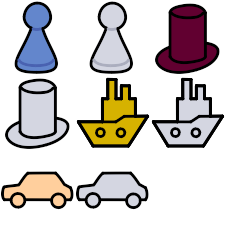
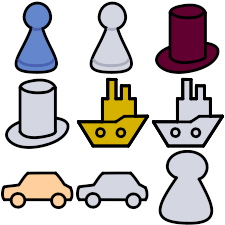
ftr(Piece): add piece selection

Changed region(s): [[0.6844, 0.6533, 0.9644, 1.0]]

diff --git a/oligarсhy/src/game/Core.js b/oligarсhy/src/game/Core.js
@@ -15,6 +15,7 @@ import Utils from './Utils.js';
 import Helper from './Helper.js';
 import Timer from './Entities/Timer.js';
 import Dice from './Entities/Dice.js';
+import Piece from './Entities/Piece.js';
 
 export default class Core {
 
@@ -24,7 +25,7 @@ export default class Core {
     /** @type {Fields} */
     _fields;
 
-    /** @type {Phaser.GameObjects.Image[]} */
+    /** @type {Piece[]} */
     _pieces;
 
     /** @type {Dice} */
@@ -120,8 +121,7 @@ export default class Core {
         for (let player = 0; player < Config.Start.PlayerCount; ++player) {
             const position = me._fields.movePiece(player, 0, Config.Start.PiecePositions[player]);
 
-            const piece = factory.image(position.x, position.y, 'pieces', player * 2)
-                .setDepth(Consts.Depth.Pieces);
+            const piece = new Piece(scene, position.x, position.y, player);
 
             me._pieces.push(piece);
         }
@@ -185,19 +185,12 @@ export default class Core {
         const me = this;
 
         if (!me._scene.input.mouse.locked) {
-            if (!me._status.isPause) {
-                me._scene.tweens.pauseAll();
-                me._turnTimer.pause();
-                me._status.isPause = true;
-                me._fade.setVisible(true);
-            }
+            if (!me._status.isPause)
+                me._pause();
 
             return;
         } else if (me._status.isPause) {
-            me._scene.tweens.resumeAll();
-            me._status.isPause = false;
-            me._turnTimer.resume();
-            me._fade.setVisible(false);
+            me._unpause();
         }
 
         const skipTurn = Config.Debug.Global 
@@ -213,12 +206,13 @@ export default class Core {
             return;
         }
 
-        if (!me._isHumanTurn()) {
+        if (me._isHumanTurn()) {
+            const target = me._getCursorOffset();
+            me._getCurrentPlayer().hand.moveTo(target, delta);
+            
+        } else {
             me._processCpuTurn();
         }
-
-        const target = me._getCursorOffset();
-        me._getCurrentPlayer().hand.moveTo(target, delta);
 
         if (Config.Debug.Global && Config.Debug.TextLog) {
             me._log.text = 
@@ -248,8 +242,8 @@ export default class Core {
             ? me._hud.showField(index)
             : me._hud.hideField();
 
-        me._players.forEach(
-            (p) => p.updateButtonSelection(point));
+        if (me._isHumanTurn())
+            me._getCurrentPlayer().player.updateButtonSelection(point);
     }
 
     onPointerDown(pointer) {
@@ -440,7 +434,7 @@ export default class Core {
                     point,
                     Enums.HandAction.TAKE_PIECE,
                     {
-                        image: me._pieces[me._status.player],
+                        image: me._pieces[me._status.player].toGameObject(),
                         type: Enums.HandState.PIECE,
                     },
                     () => { me._setState(Enums.GameState.PIECE_TAKED) });
@@ -717,7 +711,7 @@ export default class Core {
                     ? me._status.player
                     : Enums.PlayerIndex.HUMAN;
 
-                const humanPos = Utils.toPoint(me._pieces[playerIndex]);
+                const humanPos = Utils.toPoint(me._pieces[playerIndex].toGameObject());
 
                 const randomPos = Utils.buildPoint(
                     humanPos.x + Utils.getRandom(-200, 200, 0),
@@ -731,7 +725,7 @@ export default class Core {
             }
 
             case Enums.GameState.DICES_DROPED:
-                return Utils.toPoint(me._pieces[me._status.player]);
+                return Utils.toPoint(me._pieces[me._status.player].toGameObject());
 
             case Enums.GameState.PIECE_TAKED:
                 return me._fields.getFieldPosition(me._status.targetPieceIndex);
@@ -944,19 +938,7 @@ export default class Core {
         switch (state) {
             case Enums.GameState.BEGIN:
                 player.showButtons([]);
-
-                if (player.index == Enums.PlayerIndex.HUMAN) {
-                    me._dice1.select();
-                    me._dice2.select();
-                } else {
-                    me._dice1.unselect();
-                    me._dice2.unselect();
-                }
                 break;
-
-            case Enums.GameState.SECOND_DICE_TAKED:
-                me._dice1.unselect();
-                me._dice2.unselect();
 
             case Enums.GameState.FINAL:
                 player.showButtons([ Enums.ActionType.NEXT_TURN ]);
@@ -968,6 +950,7 @@ export default class Core {
         }
 
         me._status.setState(state);
+        me._restoreSelection();
     }
 
     _createCursor(scene) {
@@ -1046,12 +1029,12 @@ export default class Core {
 
         me._status.isBusy = true;
         return me._scene.tweens.add({
-            targets: me._pieces[me._status.player],
+            targets: me._pieces[me._status.player].toGameObject(),
             x: jail.x,
             y: jail.y,
             ease: 'Sine.easeInOut',
             duration: Utils.getTweenDuration(
-                Utils.toPoint(me._pieces[me._status.player]),
+                Utils.toPoint(me._pieces[me._status.player].toGameObject()),
                 jail,
                 Consts.Speed.HandAction
             ),
@@ -1125,6 +1108,63 @@ export default class Core {
                     me._groups.killBill(bill);
                 }
             });
+        }
+    }
+
+    _pause() {
+        const me = this;
+
+        me._scene.input.mouse.releasePointerLock();
+        me._scene.tweens.pauseAll();
+        me._turnTimer.pause();
+        me._status.isPause = true;
+        me._fade.setVisible(true);
+    }
+
+    _unpause() {
+        const me = this;
+
+        me._scene.tweens.resumeAll();
+        me._status.isPause = false;
+        me._turnTimer.resume();
+        me._restoreSelection();
+        me._fade.setVisible(false);
+    }
+
+    _restoreSelection() {
+        const me = this;
+
+        const isHuman = me._isHumanTurn();
+
+        switch (me._status.state) {
+            case Enums.GameState.BEGIN:
+
+                if (!isHuman) {
+                    me._dice1.unselect();
+                    me._dice2.unselect();
+                    me._pieces[Enums.PlayerIndex.HUMAN].unselect();
+                } else {
+                    me._dice1.select();
+                    me._dice2.select();
+                }
+                break;
+
+            case Enums.GameState.SECOND_DICE_TAKED:
+                me._dice1.unselect();
+                me._dice2.unselect();
+
+                break;
+
+            case Enums.GameState.DICES_DROPED:
+                if (isHuman)
+                    me._pieces[Enums.PlayerIndex.HUMAN].select();
+
+                break;
+
+            case Enums.GameState.PIECE_TAKED:
+                if (isHuman)
+                    me._pieces[Enums.PlayerIndex.HUMAN].unselect();
+                break;
         }
     }
 }

diff --git a/oligarсhy/src/game/Entities/Piece.js b/oligarсhy/src/game/Entities/Piece.js
@@ -1,0 +1,63 @@
+import Phaser from "../../lib/phaser.js";
+
+import Consts from "../Consts.js";
+import Enums from "../Enums.js";
+
+export default class Piece {
+    
+    _sprite;
+
+    _selection;
+
+    _tween;
+
+    _container;
+
+    /**
+     * 
+     * @param {Phaser.Scene} scene 
+     * @param {Number} x 
+     * @param {Number} y 
+     * @param {Number} frame 
+     */
+    constructor(scene, x, y, player) {
+        const me = this;
+
+        me._selection = scene.add.image(0, 0, 'pieces', 8)
+           .setVisible(false);
+
+        me._sprite = scene.add.image(0, 0, 'pieces', player * 2);
+
+        me._container = scene.add.container(x, y, [ me._selection, me._sprite ])
+            .setDepth(Consts.Depth.Pieces);
+
+        if (player == Enums.PlayerIndex.HUMAN)
+            me._tween = scene.tweens.add({
+                targets: me._selection,
+                scale: { from: 1, to: 1.25 },
+                duration: Consts.Speed.Selection,
+                yoyo: true,
+                repeat: -1
+            });
+    }
+
+    toGameObject() {
+        const me = this;
+
+        return me._container;
+    }
+
+    select() {
+        const me = this;
+
+        me._selection.setVisible(true);
+        me._tween.resume();
+    }
+
+    unselect() {
+        const me = this;
+
+        me._selection.setVisible(false);
+        me._tween.pause();
+    }
+}

diff --git a/oligarсhy/src/game/Entities/Dice.js b/oligarсhy/src/game/Entities/Dice.js
@@ -1,9 +1,6 @@
 import Phaser from "../../lib/phaser.js";
 
 import Consts from "../Consts.js";
-import Enums from "../Enums.js";
-import Groups from "./Groups.js";
-import Helper from "../Helper.js";
 import Utils from "../Utils.js";
 
 export default class Dice {
@@ -49,7 +46,7 @@ export default class Dice {
         me._tween = scene.tweens.add({
             targets: me._selection,
             scale: { from: 1, to: 0.9 },
-            duration: 500,
+            duration: Consts.Speed.Selection,
             yoyo: true,
             repeat: -1
         });

diff --git a/oligarсhy/src/game/Consts.js b/oligarсhy/src/game/Consts.js
@@ -128,7 +128,9 @@ export default class Consts {
         HandGrabDuration: 200,
 
         CardShiftDuration: 1000,
-        CardEntranceDuration: 1500
+        CardEntranceDuration: 1500,
+
+        Selection: 500
     };
 
     static HandWaitPosition = {

diff --git a/oligarсhy/src/game/Enums.js b/oligarсhy/src/game/Enums.js
@@ -38,6 +38,7 @@ export default class Enums {
         BROWN: 8,
     };
 
+    // TODO: rename
     static PlayerIndex = {
         NOONE: -1,
         HUMAN: 0,
